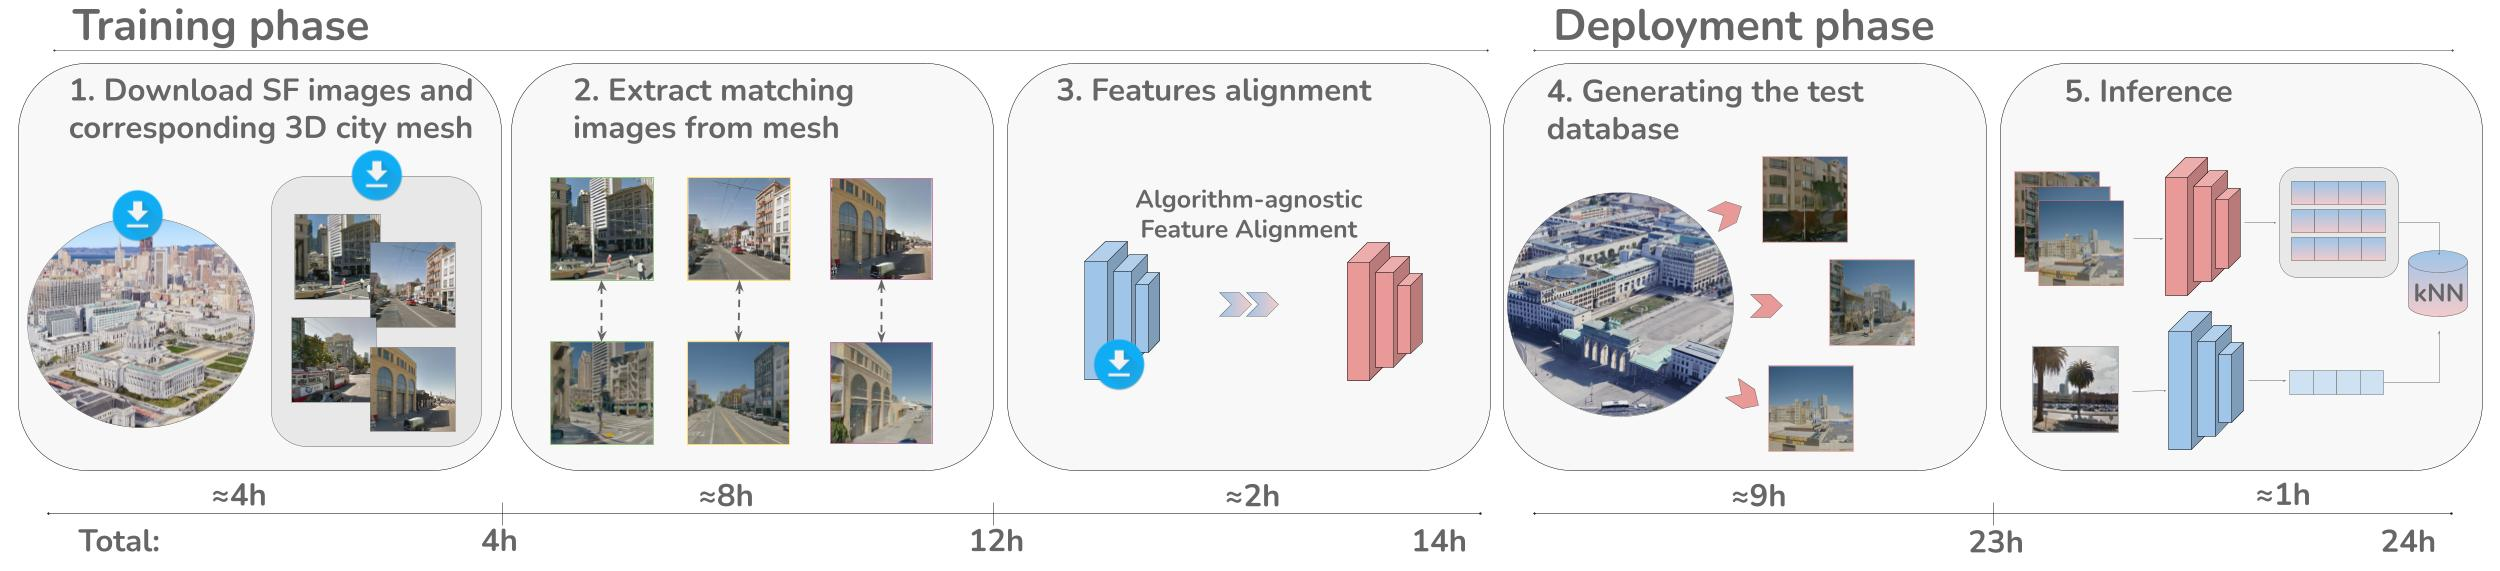
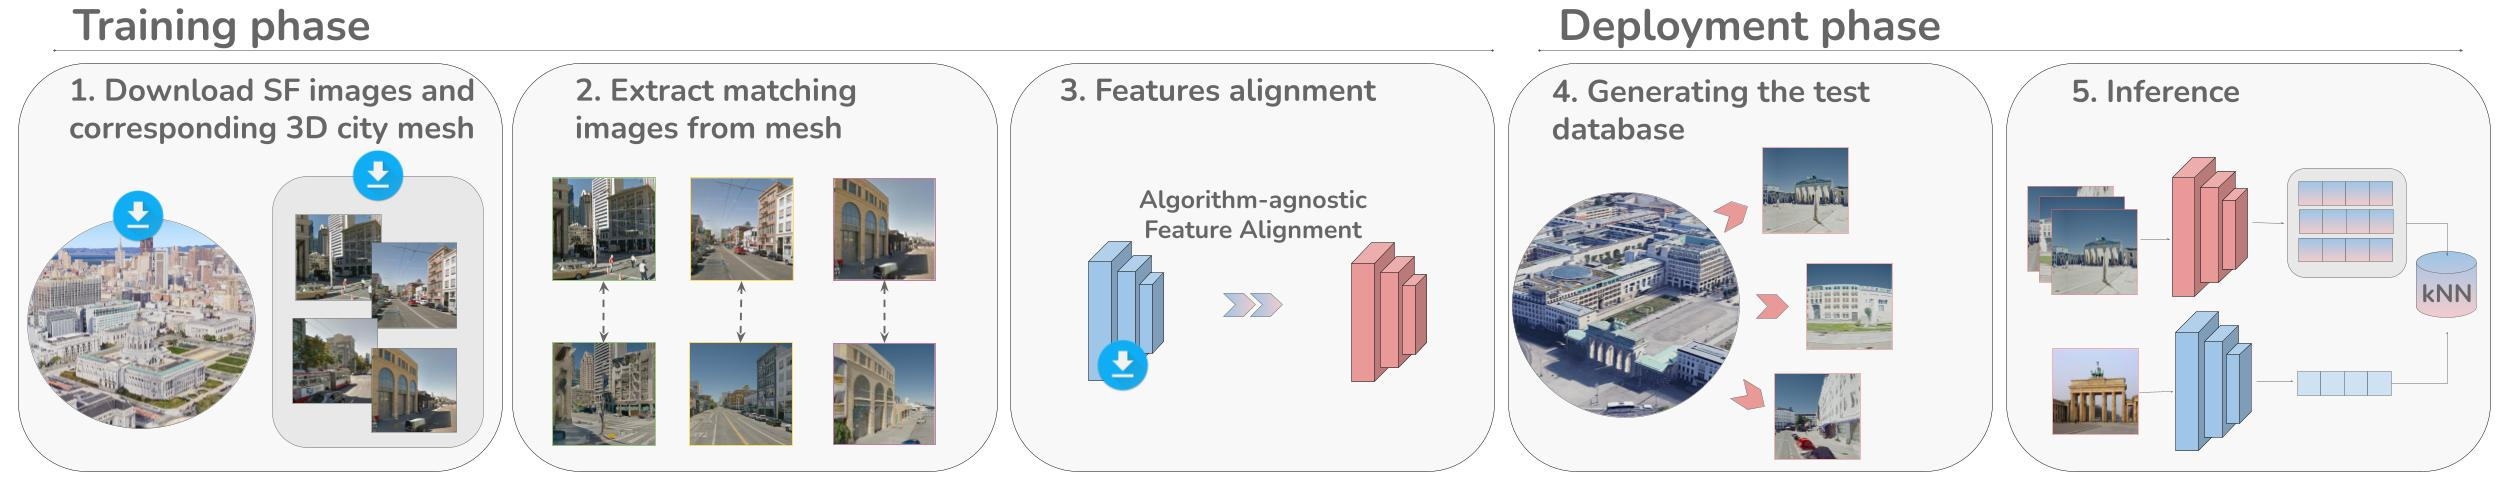
Update to new version

diff --git a/index.html b/index.html
@@ -11,7 +11,7 @@
   <body>
     <header>
       <h1>
-        Berlin in a Day with MeshVPR<br />
+        MeshVPR<br />
         <span class="sub"
           >Citywide Visual Place Recognition Using 3D Meshes
         </span>
@@ -21,7 +21,7 @@
       <section class="sec-video">
         <iframe
           class="full-width-video"
-          src="https://www.youtube-nocookie.com/embed/gFoxT02J6C0"
+          src="https://www.youtube-nocookie.com/embed/rWF-LfsDJKA"
           title="YouTube video player"
           frameborder="0"
           allow="accelerometer; autoplay; clipboard-write; encrypted-media; gyroscope; picture-in-picture; web-share"
@@ -30,38 +30,37 @@
       </section>
       <section class="sec-abstract">
         <h2>Abstract</h2>
-        Visual Place Recognition (VPR), i.e., the task of finding the location
-        of a photo, is commonly addressed as an image retrieval problem from a
-        database of geo-tagged images. Despite being often overlooked, the
-        collection of such a database is a practical challenge, particularly for
-        large-scale settings when the VPR system must be deployed to one or
-        multiple cities. To solve this problem we introduce a hybrid VPR
-        pipeline which leverages the increasing availability of free 3D meshes
-        of entire cities. Our pipeline, called MeshVPR, uses 3D meshes to create
-        a database of synthetic images from arbitrary views for the deployment
-        of a VPR model pre-trained on real data. We further use a lightweight
-        fine-tuning features alignment step in order to handle the appearance
-        gap between real and synthetic images. MeshVPR allows to quickly deploy
-        a VPR model to any city, as proven by creating a system for Berlin in
-        less than a day. Extensive experiments demonstrate that MeshVPR achieves
-        results that are competitive w.r.t traditional VPR systems that use
-        databases of real images (only 5% drop in Recall@5).
+        Mesh-based scene representation offers a promising direction for
+        simplifying large-scale hierarchical visual localization pipelines,
+        combining a visual place recognition step based on global features
+        (retrieval) and a visual localization step based on local features.
+        While existing work demonstrates the viability of meshes for visual
+        localization, the impact of using synthetic databases rendered from them
+        in visual place recognition remains largely unexplored. In this work we
+        investigate using dense 3D textured meshes for large-scale Visual Place
+        Recognition (VPR) and identify a significant performance drop when using
+        synthetic mesh-based databases compared to real-world images for
+        retrieval. To address this, we propose MeshVPR, a novel VPR pipeline
+        that utilizes a lightweight features alignment framework to bridge the
+        gap between real-world and synthetic domains. MeshVPR leverages
+        pre-trained VPR models and it is efficient and scalable for city-wide
+        deployments. We introduce novel datasets with freely available 3D meshes
+        and manually collected queries from Berlin, Paris, and Melbourne.
+        Extensive evaluations demonstrate that MeshVPR achieves competitive
+        performance with standard VPR pipelines, paving the way for mesh-based
+        localization systems. Our contributions include the new task of citywide
+        mesh-based VPR, the new benchmark datasets, MeshVPR, and a thorough
+        analysis of open challenges.
       </section>
 
       <section class="sec-pipeline">
         <img src="assets/pipeline.jpg" alt="Teaser" />
         <div class="sec-description">
-          <b>Our proposed pipeline for hybrid image retrieval.</b> The training
-          phase is made of steps 1, 2 and 3, and can be performed on any city
-          with a dataset of real images and a 3D mesh (we use San Francisco).
-          Once the training phase is completed, the deployment phase can take
-          part on any target city: in this paper we show results on Berlin,
-          Paris and Melbourne. More in details, steps 1 and 2 aim at creating a
-          set of real-synthetic pairs of images, to be used for the features
-          alignment step (3). For the deployment, a database of synthetic images
-          is extracted from any target 3D city mesh (step 4), and finally our
-          proposed hybrid retrieval architecture is employed to geo localize
-          real-world query images (step 5)
+          <b>Our proposed pipeline for mesh-based visual place recognition.</b>
+          The training phase consists in downloading training (real) images and
+          the 3D mesh, generating their synthetic counterparts and specializing
+          the synthetic model through feature alignment. Once the training phase
+          is completed, the deployment phase can take part on any target city.
         </div>
       </section>
       <section class="sec-results">
@@ -94,8 +93,8 @@
         </div>
         <div id="map"></div>
         <br />
-        Results maybe overlapping zoom in to see them all.
-        Click on on image in the map to zoom in.
+        Results maybe overlapping zoom in to see them all. Click on on image in
+        the map to zoom in.
       </section>
     </main>
   </body>

diff --git a/style.css b/style.css
@@ -6,14 +6,13 @@ html {
   width: 100%;
   box-sizing: border-box;
   font-size: 16px;
-  padding: 1rem;
 }
 
 h1 {
   font-size: 3rem;
   font-weight: 700;
   margin-bottom: 2rem;
-  text-align: left;
+  text-align: center;
 }
 
 h1 .sub {
@@ -36,9 +35,7 @@ header {
 }
 
 main {
-  margin-left: auto;
-  margin-right: auto;
-  max-width: 60rem;
+
 }
 
 img {
@@ -48,6 +45,9 @@ img {
 section {
   margin-bottom: 4rem;
   font-size: 1.2rem;
+  max-width: 60rem;
+  margin-left: auto;
+  margin-right: auto;
 }
 
 .sec-abstract {
@@ -76,11 +76,16 @@ section {
 }
 
 .sec-results {
+  max-width: 100%;
+}
+
+.sec-results h2 {
+  text-align: center;
 }
 
 #map {
   width: 100%;
-  height: 500px;
+  height: 700px;
 }
 
 .example-queries {
@@ -89,11 +94,11 @@ section {
   flex-direction: row;
   justify-content: space-between;
   gap: 0.75rem;
-  height: 15rem;
+  height: 18rem;
 }
 
 .example-query {
-  height: 14.25rem;
+  height: 17.25rem;
 }
 
 .example-query img {
